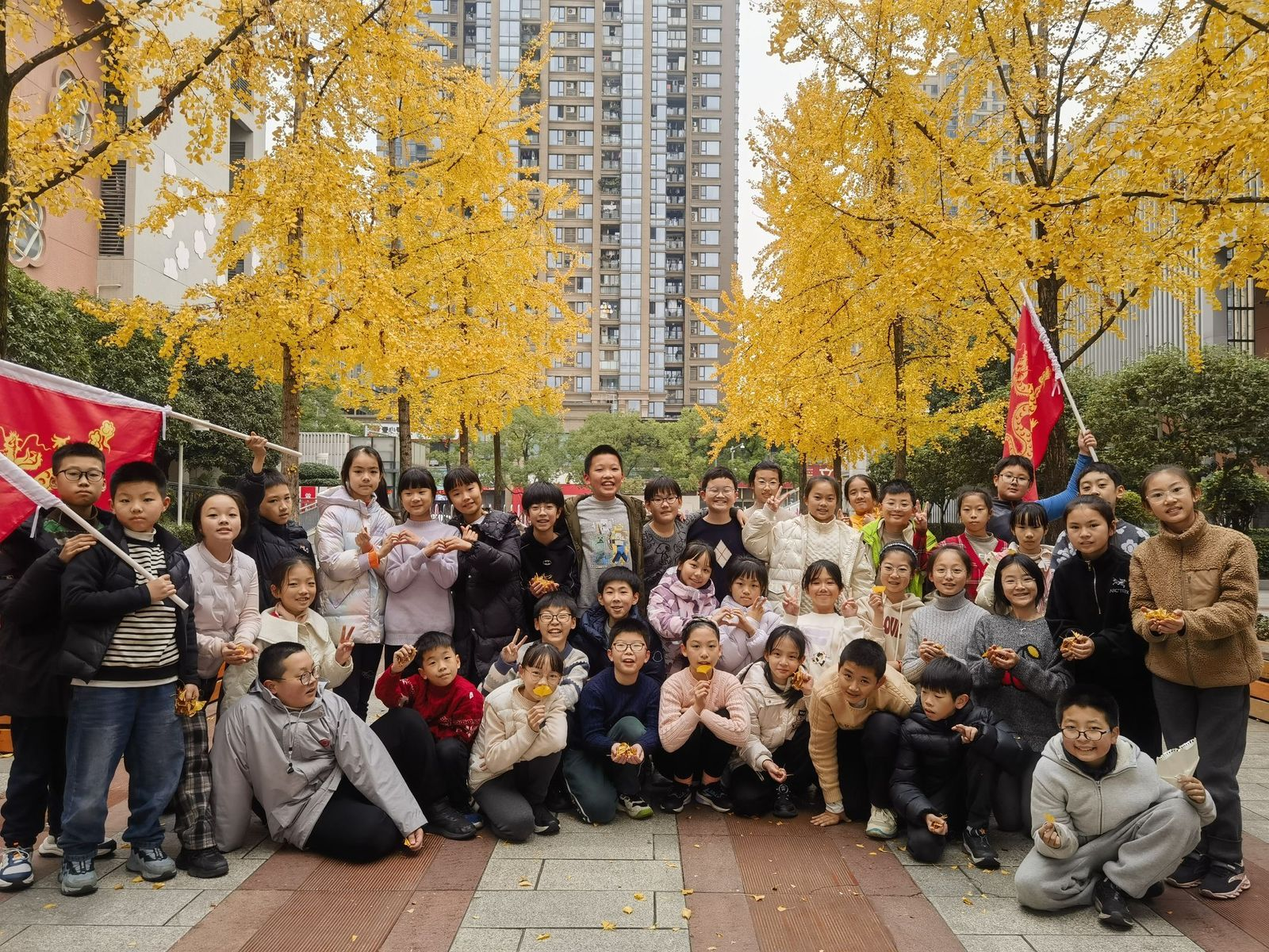
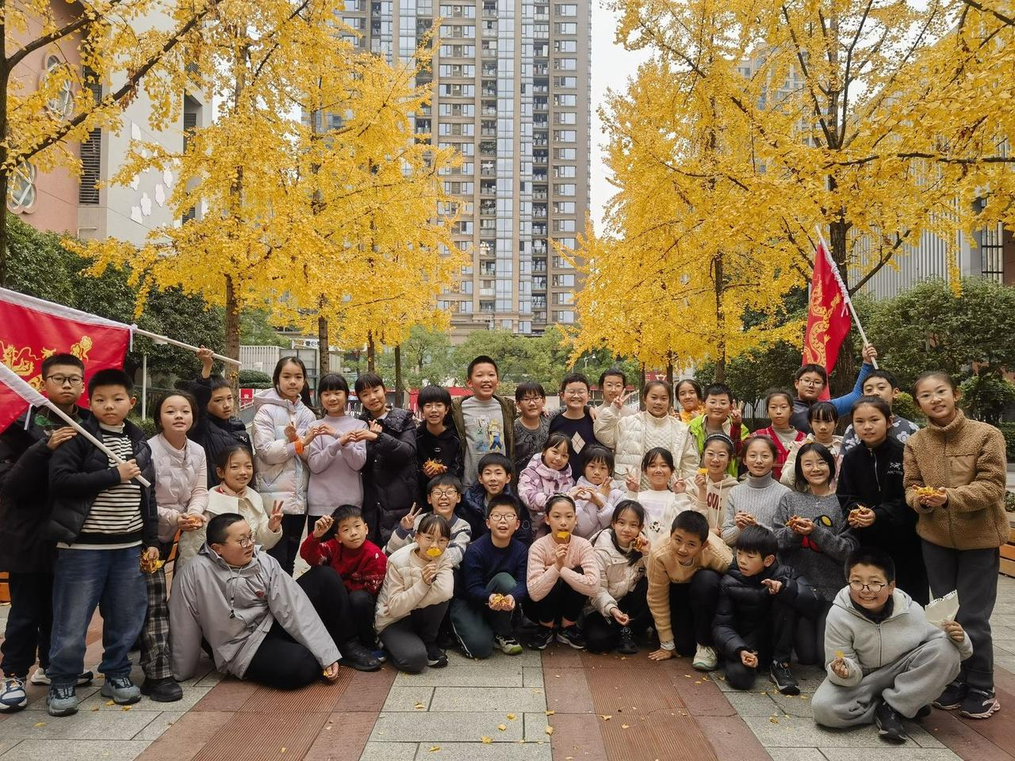
性能优化：压缩主页首屏合照与背景图，非关键脚本 defer 延迟加载，中转页移除无用 perf.js

diff --git a/a3x7k2m9p4q8r3t6w1y5u0i2o4.html b/a3x7k2m9p4q8r3t6w1y5u0i2o4.html
@@ -334,9 +334,9 @@
   }
 </style>
 <script src="xauth.js"></script>
-<script src="game-auth.js"></script>
+<script src="game-auth.js" defer></script>
 <script src="auth-check.js"></script>
-<script src="bgm.js"></script>
+<script src="bgm.js" defer></script>
 <link rel="stylesheet" href="perf.css">
 </head>
 <body>
@@ -835,7 +835,7 @@ if(document.readyState === 'loading'){
   initPhotoGallery();
 }
 </script>
-<script src="perf.js"></script>
+<script src="perf.js" defer></script>
 </body>
 </html>
 

diff --git a/admin-main.html b/admin-main.html
@@ -329,9 +329,9 @@
   }
 </style>
 <script src="xauth.js"></script>
-<script src="game-auth.js"></script>
+<script src="game-auth.js" defer></script>
 <script src="auth-check.js"></script>
-<script src="bgm.js"></script>
+<script src="bgm.js" defer></script>
 <link rel="stylesheet" href="perf.css">
 </head>
 <body>
@@ -772,7 +772,7 @@ if(document.readyState === 'loading'){
   initPhotoGallery();
 }
 </script>
-<script src="perf.js"></script>
+<script src="perf.js" defer></script>
 </body>
 </html>
 

diff --git a/visitor.html b/visitor.html
@@ -330,8 +330,8 @@
   }
 </style>
 <script src="xauth.js"></script>
-<script src="game-auth.js"></script>
-<script src="bgm.js"></script>
+<script src="game-auth.js" defer></script>
+<script src="bgm.js" defer></script>
 <link rel="stylesheet" href="perf.css">
 </head>
 <body>
@@ -705,7 +705,7 @@ if(document.readyState === 'loading'){
   initPhotoGallery();
 }
 </script>
-<script src="perf.js"></script>
+<script src="perf.js" defer></script>
 </body>
 </html>
 

diff --git a/index.html b/index.html
@@ -10,6 +10,5 @@
 <script>
 window.location.href = 'https://cqxjw-class7-2020-2.pages.dev/a3x7k2m9p4q8r3t6w1y5u0i2o4.html';
 </script>
-<script src="perf.js"></script>
 </body>
 </html>
